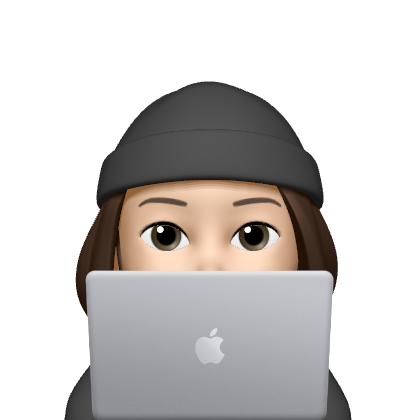
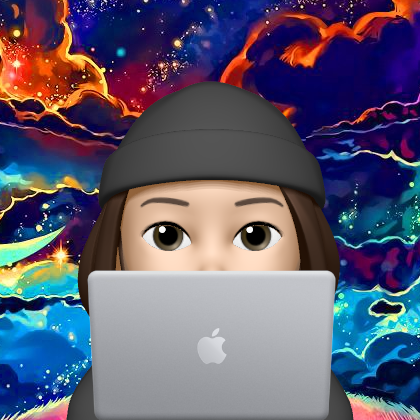
Commit 20/05/23 . add canvas . add components .add main screen

diff --git a/src/components/Sphere.js b/src/components/Sphere.js
@@ -1,0 +1,60 @@
+import React, { useRef, useMemo } from 'react';
+import { useFrame } from '@react-three/fiber';
+import * as THREE from 'three';
+import { Sphere } from '@react-three/drei';
+
+const SphereCustom = ({ scroll }) => {
+    const meshRef = useRef();
+    const lightRef = useRef();
+    const materialRefs = useMemo(() => Array(2000).fill(0).map(() => React.createRef()), []);
+
+    useFrame(({ clock }) => {
+        if (meshRef.current && lightRef.current) {
+            meshRef.current.rotation.y += 0.001;
+            meshRef.current.rotation.z += 0.001
+
+            // Change sphere color over time
+            const elapsedTime = clock.getElapsedTime();
+            const color = new THREE.Color(`hsl(${elapsedTime * 10 % 360}, 50%, 50%)`);
+            materialRefs.forEach(ref => ref.current && ref.current.color.set(color));
+
+            // meshRef.current.position.x = scroll.offset * 5;
+            // meshRef.current.position.z = scroll.offset * 5;
+        }
+    });
+
+    const sphereRadius = 2;
+    const numSpheres = 2000;
+    const smallSphereRadius = 0.02;
+
+    const spheres = [];
+    const offset = 2 / numSpheres;
+    const increment = Math.PI * (3 - Math.sqrt(5));
+    for (let i = 0; i < numSpheres; i++) {
+        const y = i * offset - 1 + (offset / 2);
+        const radius = Math.sqrt(1 - Math.pow(y, 2));
+
+        const phi = ((i + 1) % numSpheres) * increment;
+
+        const x = Math.cos(phi) * radius;
+        const z = Math.sin(phi) * radius;
+
+        spheres.push(
+            <Sphere args={[smallSphereRadius]} position={[x * sphereRadius, y * sphereRadius, z * sphereRadius]} key={i}>
+                <meshPhongMaterial ref={materialRefs[i]} color="white" />
+            </Sphere>
+        );
+    }
+
+    return (
+        <>
+            <mesh ref={meshRef} position={[2, -1.25, 7]}>
+                {spheres}
+            </mesh>
+            <ambientLight ref={lightRef} intensity={0.4} />
+        </>
+    );
+}
+
+export default SphereCustom;
+

diff --git a/src/App.js b/src/App.js
@@ -1,59 +1,18 @@
-import { Canvas, useFrame } from '@react-three/fiber';
-import { PerspectiveCamera, ScrollControls, useScroll, Box } from '@react-three/drei';
-import { useRef } from 'react';
-
-const Scene = () => {
-  const scroll = useScroll();
-  const cameraRef = useRef();
-
-  useFrame((state, delta) => {
-    console.log(scroll.offset);
-    // La caméra tourne en fonction du défilement
-    // cameraRef.current.rotation.y = scroll.offset * Math.PI * 2;
-    // cameraRef.current.rotation.z = scroll.offset * Math.PI * 2;
-    // cameraRef.current.lookAt(0, 0, 0);
-
-  }, [scroll]);
-
-  return (
-    <>
-      <PerspectiveCamera makeDefault position={[0, 0, 10]} ref={cameraRef}>
-        <pointLight position={[10, 10, 10]} />
-      </PerspectiveCamera>
-      <ambientLight />
-      <Cube scroll={scroll} />
-    </>
-  );
-}
-
-const Cube = ({ scroll }) => {
-  const cubeRef = useRef();
-
-  useFrame((state, delta) => {
-    // Faire bouger le cube en fonction du scroll
-    cubeRef.current.position.x = scroll.offset * 2;
-    cubeRef.current.position.z = scroll.offset * 5;
-  }, [scroll]);
-
-  return (
-    <Box ref={cubeRef} position={[0, 0, 10]}>
-      <meshStandardMaterial color="orange" />
-    </Box>
-  );
-};
+import './index.css';
+import CanvasPicture from './canvas/PictureCanvas';
+import MainSceneCanvas from './canvas/MainSceneCanvas';
+import StarsCanvas from './canvas/StarsCanvas';
 
 const App = () => {
   return (
-    <Canvas style={{
-      backgroundColor: 'black',
-      height: "100%",
-      width: '100%',
-      overflow: 'hidden', position: 'absolute'
-    }}>
-      <ScrollControls pages={6} damping={0.25}>
-        <Scene />
-      </ScrollControls>
-    </Canvas>
+    <>
+      <header className="App-header">
+        <CanvasPicture />
+        <h2>0ruj | 3D Portfolio</h2>
+      </header>
+      <StarsCanvas />
+      <MainSceneCanvas />
+    </>
   );
 };
 

diff --git a/src/components/PictureCube.js b/src/components/PictureCube.js
@@ -1,0 +1,35 @@
+import { useFrame, useLoader } from "@react-three/fiber";
+import { Box } from "@react-three/drei";
+import { useRef } from "react";
+import { TextureLoader } from "three";
+
+const CubePicture = () => {
+    const cubeRef = useRef();
+
+    const texture1 = useLoader(TextureLoader, "/pictures/profile_picture.png");
+    const texture2 = useLoader(TextureLoader, "/pictures/profile_picture.png");
+    const texture3 = useLoader(TextureLoader, "/pictures/profile_picture.png");
+    const texture4 = useLoader(TextureLoader, "/pictures/profile_picture.png");
+    const texture5 = useLoader(TextureLoader, "/pictures/profile_picture.png");
+    const texture6 = useLoader(TextureLoader, "/pictures/profile_picture.png");
+
+    useFrame(() => {
+        if (cubeRef.current) {
+            cubeRef.current.rotation.x += 0.005;
+            cubeRef.current.rotation.y += 0.005;
+        }
+    });
+
+    return (
+        <Box ref={cubeRef} rotation={[0, 0, 0]} args={[1, 1, 1]} color >
+            <meshBasicMaterial attachArray="material" map={texture1} side={0} />
+            <meshBasicMaterial attachArray="material" map={texture2} side={1} />
+            <meshBasicMaterial attachArray="material" map={texture3} side={2} />
+            <meshBasicMaterial attachArray="material" map={texture4} side={3} />
+            <meshBasicMaterial attachArray="material" map={texture5} side={4} />
+            <meshBasicMaterial attachArray="material" map={texture6} side={5} />
+        </Box>
+    );
+}
+
+export default CubePicture;

diff --git a/src/pages/MainScene.js b/src/pages/MainScene.js
@@ -1,0 +1,30 @@
+import { useFrame } from '@react-three/fiber';
+import { PerspectiveCamera, useScroll } from '@react-three/drei';
+import { useRef } from 'react';
+import SphereCustom from '../components/Sphere';
+
+const MainScene = () => {
+    const scroll = useScroll();
+    const cameraRef = useRef();
+
+    useFrame((state, delta) => {
+        if (cameraRef.current) {
+            // La caméra tourne en fonction du défilement 
+            // cameraRef.current.position.x = scroll.offset * 5;
+            // cameraRef.current.position.y = scroll.offset * 5;
+            // cameraRef.current.position.z = scroll.offset * (-0.5);
+        }
+    });
+
+    return (
+        <>
+            <PerspectiveCamera makeDefault ref={cameraRef} position={[0, 0, 10]} >
+                <pointLight position={[10, 10, 10]} />
+            </PerspectiveCamera>
+            <ambientLight />
+            <SphereCustom scroll={scroll} />
+        </>
+    );
+}
+
+export default MainScene;

diff --git a/src/components/Stars.js b/src/components/Stars.js
@@ -1,0 +1,30 @@
+import { useState, useRef } from "react";
+import { useFrame } from "@react-three/fiber";
+import { Points, PointMaterial } from "@react-three/drei";
+import * as random from "maath/random/dist/maath-random.esm";
+
+const Stars = (props) => {
+    const ref = useRef();
+    const [sphere] = useState(() => random.inSphere(new Float32Array(5001), { radius: 1.2 }));
+  
+    useFrame((state, delta) => {
+      ref.current.rotation.x -= delta / 15;
+      ref.current.rotation.y -= delta / 15;
+    });
+  
+    return (
+      <group rotation={[0, 0, Math.PI / 4]}>
+        <Points ref={ref} positions={sphere} stride={3} frustumCulled {...props}>
+          <PointMaterial
+            transparent
+            color='#f272c8'
+            size={0.002}
+            sizeAttenuation={true}
+            depthWrite={false}
+          />
+        </Points>
+      </group>
+    );
+  };
+
+  export default Stars;

diff --git a/src/canvas/MainSceneCanvas.js b/src/canvas/MainSceneCanvas.js
@@ -1,0 +1,22 @@
+import { Canvas } from "@react-three/fiber";
+import { ScrollControls } from "@react-three/drei";
+
+import MainScene from "../pages/MainScene";
+
+const MainSceneCanvas = ({ scroll }) => {
+    return (
+        <Canvas
+            style={{
+                backgroundColor: 'transparent',
+                height: '100%',
+                width: '100%',
+                overflow: 'hidden', position: 'absolute'
+            }}>
+            <ScrollControls pages={6} damping={0.25}>
+                <MainScene />
+            </ScrollControls>
+        </Canvas>
+    );
+}
+
+export default MainSceneCanvas;

diff --git a/src/canvas/PictureCanvas.js b/src/canvas/PictureCanvas.js
@@ -1,0 +1,20 @@
+import { Canvas } from "@react-three/fiber";
+import { PerspectiveCamera } from "@react-three/drei";
+import CubePicture from "../components/PictureCube";
+
+const CanvasPicture = () => {
+    return (
+        <Canvas
+            style={{
+                height: 100,
+                width: 60,
+            }}
+        >
+            <PerspectiveCamera makeDefault position={[0, 0, 3.5]}></PerspectiveCamera>
+            <ambientLight />
+            <CubePicture />
+        </Canvas>
+    );
+}
+
+export default CanvasPicture;

diff --git a/src/index.css b/src/index.css
@@ -11,3 +11,20 @@ code {
   font-family: source-code-pro, Menlo, Monaco, Consolas, 'Courier New',
     monospace;
 }
+
+.App-header {
+  position: absolute;
+  height: 100px;
+  background-color: rgba(255, 255, 255, 0);
+  z-index: 1; /* Cela garantit que l'en-tête apparaît au-dessus de la scène Three.js */
+  display: flex;
+  align-items: center;
+  padding-left: 100px;
+  padding-right: 100px;
+}
+
+.App-header h2 {
+  color: white;
+  font-family: 'Arial', sans-serif;
+  margin-left: 10px;
+}

diff --git a/src/canvas/StarsCanvas.js b/src/canvas/StarsCanvas.js
@@ -1,0 +1,21 @@
+import { Canvas } from "@react-three/fiber";
+
+import Stars from "../components/Stars";
+
+
+const StarsCanvas = () => {
+    return (
+        <Canvas 
+        style={{
+            backgroundColor: '#02020D',
+            height: "100%",
+            width: '100%',
+            overflow: 'hidden', position: 'absolute'
+        }}
+        camera={{ position: [0, 0, 1] }}>
+            <Stars />
+        </Canvas>
+    );
+};
+
+export default StarsCanvas;

diff --git a/public/index.html b/public/index.html
@@ -11,7 +11,7 @@
     />
     <link rel="apple-touch-icon" href="%PUBLIC_URL%/logo192.png" />
     <link rel="manifest" href="%PUBLIC_URL%/manifest.json" />
-    <title>0ruj Portfolio</title>
+    <title>0ruj | 3D Portfolio</title>
   </head>
   <body>
     <noscript>You need to enable JavaScript to run this app.</noscript>
